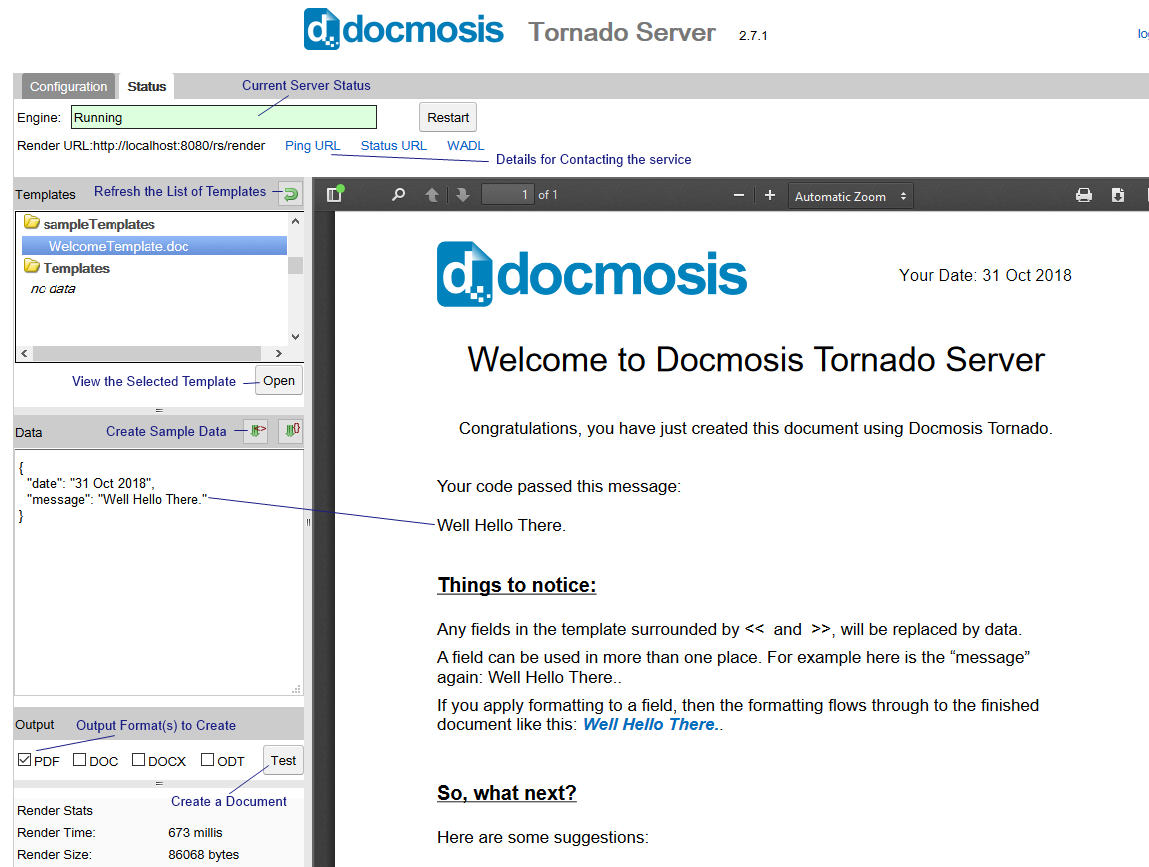
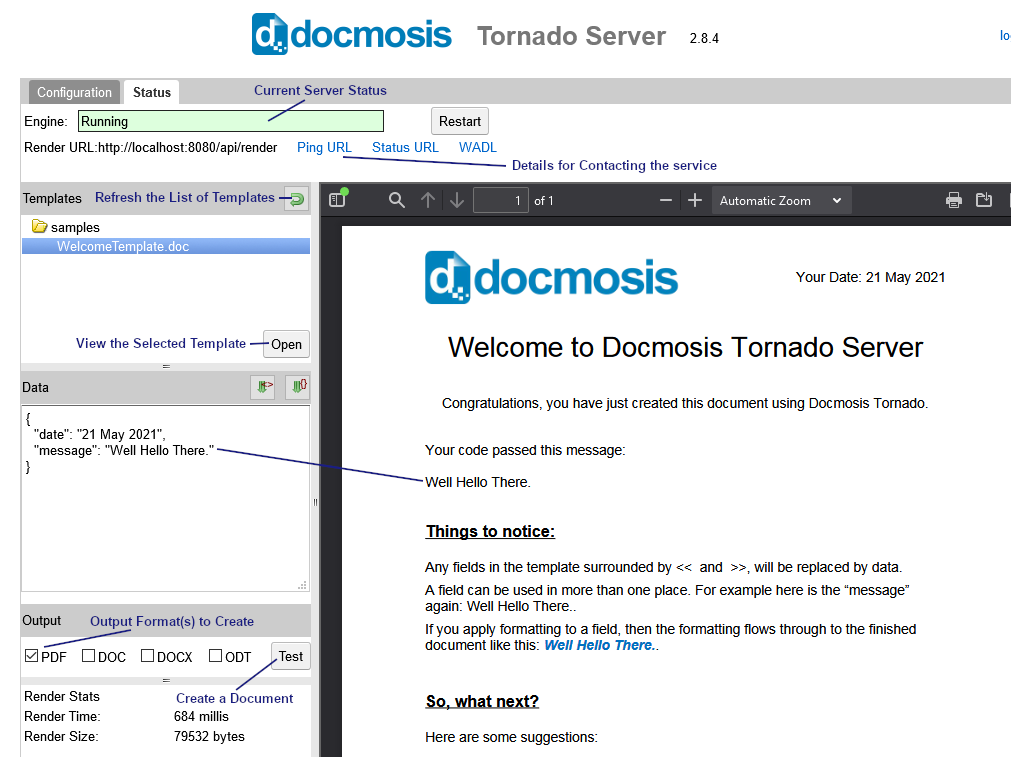
Updated Tornado to 2.8.4

diff --git a/README.md b/README.md
@@ -515,6 +515,31 @@ these settings do.
 - `mailUseSsl`  
   Enable SSL security on the connection to the mail server. Default false.
 
+- `mailConnectRetryMaxTimes`  
+  Set the maximum number of attempts to connect to the mail server.
+  Default 2.
+
+- `mailConnectRetryMinWaitMillis`  
+  Set the minimum wait time to get a connection to the mail server.
+  Default 5000ms.
+
+- `mailConnectRetryMaxWaitMillis`  
+  Set the maximum wait time to get a connection to the mail server.
+  Default 20000ms.
+
+- `mailConnectRetryRebuildTransport`  
+  Rebuild the Message Transport object on failure to connect. Default
+  true.
+
+- `mailSendRetryMaxTimes`  
+  Set the maximum number of attempts to send email. Default 2.
+
+- `mailCustomHeadersAdd`  
+  Add a custom mail header. Default true.
+
+- `mailCustomHeadersName`  
+  Set the custom header name. Default X-DWS-Tag-1
+
   ```
   docker run \
    -e DOCMOSIS_MAILENABLED=true \
